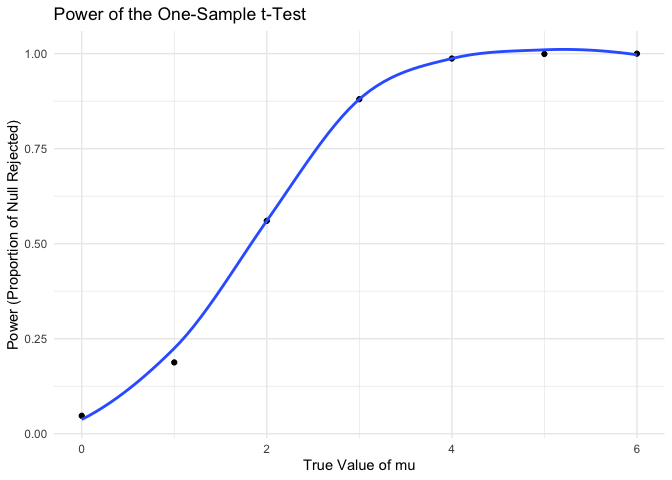
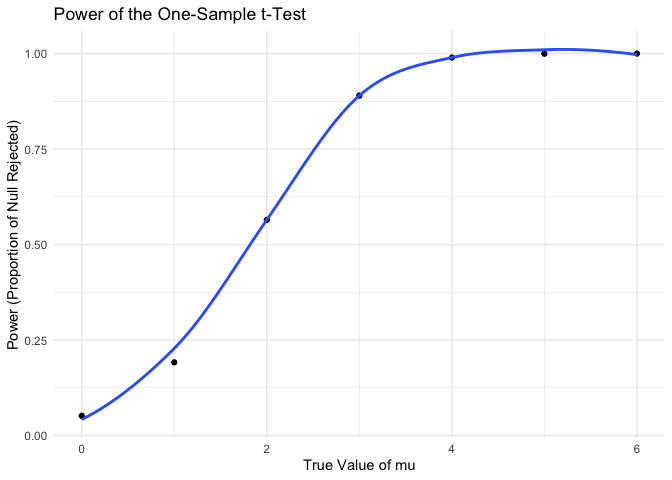
Baltimore prop test with CI

diff --git a/p8105_hw5_fp2513.md b/p8105_hw5_fp2513.md
@@ -8,7 +8,7 @@ p8105_hw5_fp2513
 birthday = sample(1:365, 10, replace = TRUE) %>% print()
 ```
 
-    ##  [1]  55  69 140 116 132 143 106 349 155  36
+    ##  [1] 221 144 164 135  53 255 243 332 166 268
 
 ``` r
 if (any(duplicated(birthday))) {
@@ -130,7 +130,7 @@ sim_power_result = sim_power()
 cat("Estimated power of the one-sample t-test: ", sim_power_result, n)
 ```
 
-    ## Estimated power of the one-sample t-test:  0.0496 10
+    ## Estimated power of the one-sample t-test:  0.0482 10
 
 ``` r
 sim_power = function(samp_size = 30, mu_values = c(0, 1, 2, 3, 4, 5, 6), sigma = 5, num_simulations = 5000, alpha = 0.05) {  
@@ -168,7 +168,7 @@ print(sim_power_result)
 ```
 
     ##      0      1      2      3      4      5      6 
-    ## 0.0472 0.1876 0.5602 0.8802 0.9872 0.9992 1.0000
+    ## 0.0516 0.1916 0.5646 0.8900 0.9896 0.9996 1.0000
 
 ``` r
 sim_power_df = data.frame(
@@ -351,3 +351,29 @@ homicide_df = read_csv(file = "data/homicide-data.csv", na = c("NA", ",", ".")) 
     ## 
     ## ℹ Use `spec()` to retrieve the full column specification for this data.
     ## ℹ Specify the column types or set `show_col_types = FALSE` to quiet this message.
+
+``` r
+baltimore_data = homicide_df %>%
+  filter(city_state == "Baltimore, MD")
+
+B_unsolved_homicides = sum(baltimore_data$disposition %in% c("Closed without arrest", "Open/No arrest"))
+B_total_homicides = nrow(baltimore_data)
+
+prop_test_Baltimore = prop.test(B_unsolved_homicides, B_total_homicides)
+
+tidy_prop_test_Baltimore = broom::tidy(prop_test_Baltimore)
+
+Bal_estimated_proportion = tidy_prop_test_Baltimore$estimate
+Bal_conf_int_lower = tidy_prop_test_Baltimore$conf.low
+Bal_conf_int_upper = tidy_prop_test_Baltimore$conf.high
+
+cat("Estimated proportion of unsolved homicides: ", Bal_estimated_proportion, "\n")
+```
+
+    ## Estimated proportion of unsolved homicides:  0.6455607
+
+``` r
+cat("95% Confidence interval: (", Bal_conf_int_lower, ", ", Bal_conf_int_upper, ")\n")
+```
+
+    ## 95% Confidence interval: ( 0.6275625 ,  0.6631599 )
